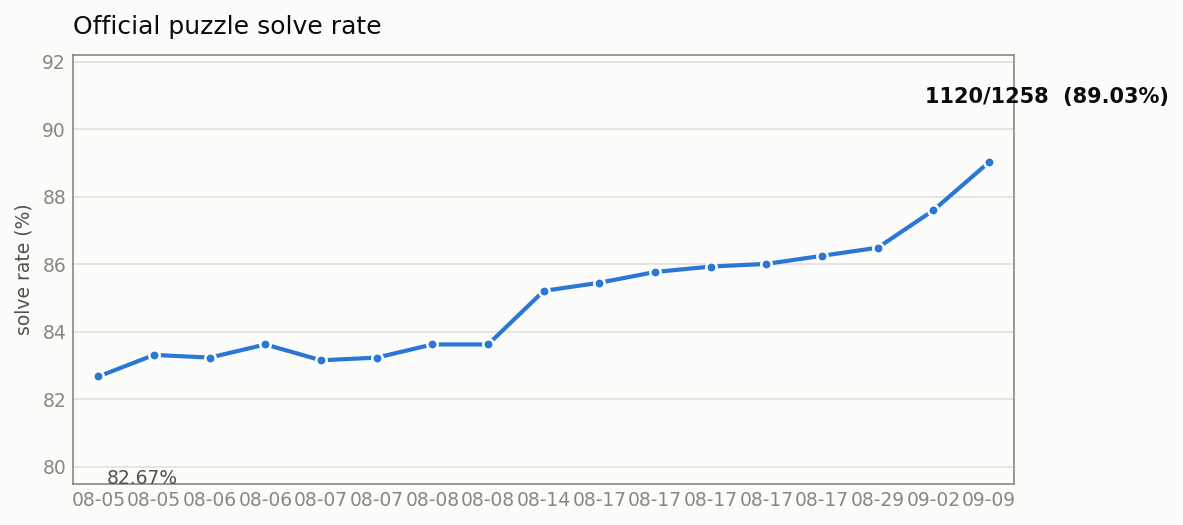
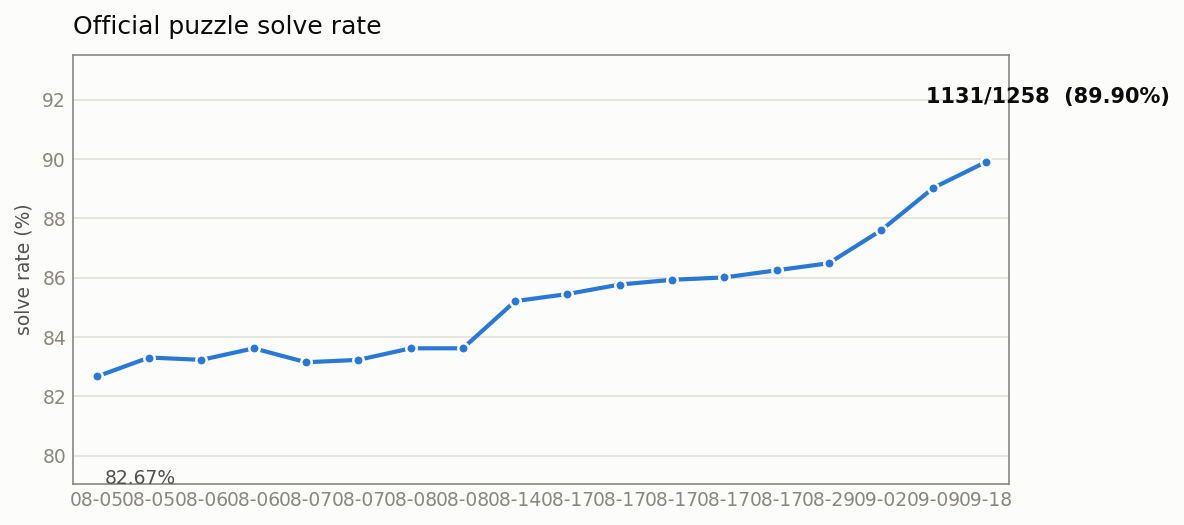
chore: 进度图更新至 1131/1258（89.90%）
追加 2026-09-18 里程碑（merge 3444bec）：edge_csp 形状同一性/compass
bbox/dual_connectivity + watchtower 对角格声音性修复，较 1120 基线
净 +11。曲线与 /trend/ 页同步重绘。

diff --git a/web/public/trend/index.html b/web/public/trend/index.html
@@ -68,113 +68,118 @@ a { color: var(--series); }
   <h1>官方谜题求解能力变化</h1>
   <p class="sub">官方谜题 (puzzles/official, 排除 -answer 目录) · 共 1258 题 · 数据源 docs/solver-history.json</p>
   <div class="hero">
-    <span class="num">89.03%</span>
-    <span class="unit">1120 / 1258 题解出</span>
+    <span class="num">89.90%</span>
+    <span class="unit">1131 / 1258 题解出</span>
   </div>
-  <span class="delta">较上次 ▲ <span class="up">1.43%</span>（1120/1258）</span>
+  <span class="delta">较上次 ▲ <span class="up">0.87%</span>（1131/1258）</span>
   <div id="chart-wrap" style="position:relative"><div class="tooltip" id="tooltip" style="visibility:hidden"></div><svg id="chart" viewBox="0 0 840 380" role="img" aria-label="官方题求解率变化曲线">
 <line class="grid" x1="60" y1="340.0" x2="816" y2="340.0"/>
-<text class="axis" x="50" y="344.0" text-anchor="end">80.4%</text>
+<text class="axis" x="50" y="344.0" text-anchor="end">80.1%</text>
 <line class="grid" x1="60" y1="234.7" x2="816" y2="234.7"/>
-<text class="axis" x="50" y="238.7" text-anchor="end">84.0%</text>
+<text class="axis" x="50" y="238.7" text-anchor="end">84.2%</text>
 <line class="grid" x1="60" y1="129.3" x2="816" y2="129.3"/>
-<text class="axis" x="50" y="133.3" text-anchor="end">87.7%</text>
+<text class="axis" x="50" y="133.3" text-anchor="end">88.3%</text>
 <line class="grid" x1="60" y1="24.0" x2="816" y2="24.0"/>
-<text class="axis" x="50" y="28.0" text-anchor="end">91.3%</text>
-<polyline class="line" points="60.0,274.9 107.2,256.2 154.5,258.6 201.8,247.2 249.0,260.9 296.2,258.6 343.5,247.2 390.8,247.2 438.0,200.7 485.2,193.7 532.5,184.3 579.8,179.7 627.0,177.3 674.2,170.3 721.5,163.3 768.8,130.9 816.0,89.1" fill="none"/>
+<text class="axis" x="50" y="28.0" text-anchor="end">92.4%</text>
+<polyline class="line" points="60.0,274.9 104.5,258.5 148.9,260.5 193.4,250.5 237.9,262.6 282.4,260.5 326.8,250.5 371.3,250.5 415.8,209.6 460.2,203.5 504.7,195.2 549.2,191.1 593.6,189.1 638.1,182.9 682.6,176.7 727.1,148.2 771.5,111.4 816.0,89.1" fill="none"/>
 <circle class="point" cx="60.0" cy="274.9" r="4.5">
 <title>2026-08-05  33d32c5
 1040/1258  (82.67%)</title>
 </circle>
 <text class="axis" x="60.0" y="366" text-anchor="middle">08-05</text>
-<circle class="point" cx="107.2" cy="256.2" r="4.5">
+<circle class="point" cx="104.5" cy="258.5" r="4.5">
 <title>2026-08-05  4733f59
 1048/1258  (83.31%)</title>
 </circle>
-<text class="axis" x="107.2" y="366" text-anchor="middle">08-05</text>
-<circle class="point" cx="154.5" cy="258.6" r="4.5">
+<text class="axis" x="104.5" y="366" text-anchor="middle">08-05</text>
+<circle class="point" cx="148.9" cy="260.5" r="4.5">
 <title>2026-08-06  7e569e7
 1047/1258  (83.23%)</title>
 </circle>
-<text class="axis" x="154.5" y="366" text-anchor="middle">08-06</text>
-<circle class="point" cx="201.8" cy="247.2" r="4.5">
+<text class="axis" x="148.9" y="366" text-anchor="middle">08-06</text>
+<circle class="point" cx="193.4" cy="250.5" r="4.5">
 <title>2026-08-06  dfadfe3
 1052/1258  (83.62%)</title>
 </circle>
-<text class="axis" x="201.8" y="366" text-anchor="middle">08-06</text>
-<circle class="point" cx="249.0" cy="260.9" r="4.5">
+<text class="axis" x="193.4" y="366" text-anchor="middle">08-06</text>
+<circle class="point" cx="237.9" cy="262.6" r="4.5">
 <title>2026-08-07  6169df3
 1046/1258  (83.15%)</title>
 </circle>
-<text class="axis" x="249.0" y="366" text-anchor="middle">08-07</text>
-<circle class="point" cx="296.2" cy="258.6" r="4.5">
+<text class="axis" x="237.9" y="366" text-anchor="middle">08-07</text>
+<circle class="point" cx="282.4" cy="260.5" r="4.5">
 <title>2026-08-07  cd40cab
 1047/1258  (83.23%)</title>
 </circle>
-<text class="axis" x="296.2" y="366" text-anchor="middle">08-07</text>
-<circle class="point" cx="343.5" cy="247.2" r="4.5">
+<text class="axis" x="282.4" y="366" text-anchor="middle">08-07</text>
+<circle class="point" cx="326.8" cy="250.5" r="4.5">
 <title>2026-08-08  bd2f5f5
 1052/1258  (83.62%)</title>
 </circle>
-<text class="axis" x="343.5" y="366" text-anchor="middle">08-08</text>
-<circle class="point" cx="390.8" cy="247.2" r="4.5">
+<text class="axis" x="326.8" y="366" text-anchor="middle">08-08</text>
+<circle class="point" cx="371.3" cy="250.5" r="4.5">
 <title>2026-08-08  shape-cap-aog
 1052/1258  (83.62%)</title>
 </circle>
-<text class="axis" x="390.8" y="366" text-anchor="middle">08-08</text>
-<circle class="point" cx="438.0" cy="200.7" r="4.5">
+<text class="axis" x="371.3" y="366" text-anchor="middle">08-08</text>
+<circle class="point" cx="415.8" cy="209.6" r="4.5">
 <title>2026-08-14  edge-csp-solver
 1072/1258  (85.21%)</title>
 </circle>
-<text class="axis" x="438.0" y="366" text-anchor="middle">08-14</text>
-<circle class="point" cx="485.2" cy="193.7" r="4.5">
+<text class="axis" x="415.8" y="366" text-anchor="middle">08-14</text>
+<circle class="point" cx="460.2" cy="203.5" r="4.5">
 <title>2026-08-17  8758659
 1075/1258  (85.45%)</title>
 </circle>
-<text class="axis" x="485.2" y="366" text-anchor="middle">08-17</text>
-<circle class="point" cx="532.5" cy="184.3" r="4.5">
+<text class="axis" x="460.2" y="366" text-anchor="middle">08-17</text>
+<circle class="point" cx="504.7" cy="195.2" r="4.5">
 <title>2026-08-17  dbe2f65
 1079/1258  (85.77%)</title>
 </circle>
-<text class="axis" x="532.5" y="366" text-anchor="middle">08-17</text>
-<circle class="point" cx="579.8" cy="179.7" r="4.5">
+<text class="axis" x="504.7" y="366" text-anchor="middle">08-17</text>
+<circle class="point" cx="549.2" cy="191.1" r="4.5">
 <title>2026-08-17  04ea400
 1081/1258  (85.93%)</title>
 </circle>
-<text class="axis" x="579.8" y="366" text-anchor="middle">08-17</text>
-<circle class="point" cx="627.0" cy="177.3" r="4.5">
+<text class="axis" x="549.2" y="366" text-anchor="middle">08-17</text>
+<circle class="point" cx="593.6" cy="189.1" r="4.5">
 <title>2026-08-17  d3d9c52
 1082/1258  (86.01%)</title>
 </circle>
-<text class="axis" x="627.0" y="366" text-anchor="middle">08-17</text>
-<circle class="point" cx="674.2" cy="170.3" r="4.5">
+<text class="axis" x="593.6" y="366" text-anchor="middle">08-17</text>
+<circle class="point" cx="638.1" cy="182.9" r="4.5">
 <title>2026-08-17  150005f
 1085/1258  (86.25%)</title>
 </circle>
-<text class="axis" x="674.2" y="366" text-anchor="middle">08-17</text>
-<circle class="point" cx="721.5" cy="163.3" r="4.5">
+<text class="axis" x="638.1" y="366" text-anchor="middle">08-17</text>
+<circle class="point" cx="682.6" cy="176.7" r="4.5">
 <title>2026-08-29  4be9922
 1088/1258  (86.49%)</title>
 </circle>
-<text class="axis" x="721.5" y="366" text-anchor="middle">08-29</text>
-<circle class="point" cx="768.8" cy="130.9" r="4.5">
+<text class="axis" x="682.6" y="366" text-anchor="middle">08-29</text>
+<circle class="point" cx="727.1" cy="148.2" r="4.5">
 <title>2026-09-02  c10e181
 1102/1258  (87.60%)</title>
 </circle>
-<text class="axis" x="768.8" y="366" text-anchor="middle">09-02</text>
-<circle class="point" cx="816.0" cy="89.1" r="4.5">
+<text class="axis" x="727.1" y="366" text-anchor="middle">09-02</text>
+<circle class="point" cx="771.5" cy="111.4" r="4.5">
 <title>2026-09-09  a04a4ad
 1120/1258  (89.03%)</title>
 </circle>
-<text class="axis" x="816.0" y="366" text-anchor="middle">09-09</text>
+<text class="axis" x="771.5" y="366" text-anchor="middle">09-09</text>
+<circle class="point" cx="816.0" cy="89.1" r="4.5">
+<title>2026-09-18  3444bec
+1131/1258  (89.90%)</title>
+</circle>
+<text class="axis" x="816.0" y="366" text-anchor="middle">09-18</text>
 <line class="crosshair" id="crosshair" y1="0" y2="0" visibility="hidden"/>
 </svg></div>
-  <table><thead><tr><th>日期</th><th>commit</th><th class='num'>通过</th><th class='num'>占比</th></tr></thead><tbody><tr class="latest"><td>2026-09-09</td><td>a04a4ad</td><td class="num">1120/1258</td><td class="num">89.03%</td></tr><tr><td>2026-09-02</td><td>c10e181</td><td class="num">1102/1258</td><td class="num">87.60%</td></tr><tr><td>2026-08-29</td><td>4be9922</td><td class="num">1088/1258</td><td class="num">86.49%</td></tr><tr><td>2026-08-17</td><td>150005f</td><td class="num">1085/1258</td><td class="num">86.25%</td></tr><tr><td>2026-08-17</td><td>d3d9c52</td><td class="num">1082/1258</td><td class="num">86.01%</td></tr><tr><td>2026-08-17</td><td>04ea400</td><td class="num">1081/1258</td><td class="num">85.93%</td></tr><tr><td>2026-08-17</td><td>dbe2f65</td><td class="num">1079/1258</td><td class="num">85.77%</td></tr><tr><td>2026-08-17</td><td>8758659</td><td class="num">1075/1258</td><td class="num">85.45%</td></tr><tr><td>2026-08-14</td><td>edge-csp-solver</td><td class="num">1072/1258</td><td class="num">85.21%</td></tr><tr><td>2026-08-08</td><td>shape-cap-aog</td><td class="num">1052/1258</td><td class="num">83.62%</td></tr><tr><td>2026-08-08</td><td>bd2f5f5</td><td class="num">1052/1258</td><td class="num">83.62%</td></tr><tr><td>2026-08-07</td><td>cd40cab</td><td class="num">1047/1258</td><td class="num">83.23%</td></tr><tr><td>2026-08-07</td><td>6169df3</td><td class="num">1046/1258</td><td class="num">83.15%</td></tr><tr><td>2026-08-06</td><td>dfadfe3</td><td class="num">1052/1258</td><td class="num">83.62%</td></tr><tr><td>2026-08-06</td><td>7e569e7</td><td class="num">1047/1258</td><td class="num">83.23%</td></tr><tr><td>2026-08-05</td><td>4733f59</td><td class="num">1048/1258</td><td class="num">83.31%</td></tr><tr><td>2026-08-05</td><td>33d32c5</td><td class="num">1040/1258</td><td class="num">82.67%</td></tr></tbody></table>
+  <table><thead><tr><th>日期</th><th>commit</th><th class='num'>通过</th><th class='num'>占比</th></tr></thead><tbody><tr class="latest"><td>2026-09-18</td><td>3444bec</td><td class="num">1131/1258</td><td class="num">89.90%</td></tr><tr><td>2026-09-09</td><td>a04a4ad</td><td class="num">1120/1258</td><td class="num">89.03%</td></tr><tr><td>2026-09-02</td><td>c10e181</td><td class="num">1102/1258</td><td class="num">87.60%</td></tr><tr><td>2026-08-29</td><td>4be9922</td><td class="num">1088/1258</td><td class="num">86.49%</td></tr><tr><td>2026-08-17</td><td>150005f</td><td class="num">1085/1258</td><td class="num">86.25%</td></tr><tr><td>2026-08-17</td><td>d3d9c52</td><td class="num">1082/1258</td><td class="num">86.01%</td></tr><tr><td>2026-08-17</td><td>04ea400</td><td class="num">1081/1258</td><td class="num">85.93%</td></tr><tr><td>2026-08-17</td><td>dbe2f65</td><td class="num">1079/1258</td><td class="num">85.77%</td></tr><tr><td>2026-08-17</td><td>8758659</td><td class="num">1075/1258</td><td class="num">85.45%</td></tr><tr><td>2026-08-14</td><td>edge-csp-solver</td><td class="num">1072/1258</td><td class="num">85.21%</td></tr><tr><td>2026-08-08</td><td>shape-cap-aog</td><td class="num">1052/1258</td><td class="num">83.62%</td></tr><tr><td>2026-08-08</td><td>bd2f5f5</td><td class="num">1052/1258</td><td class="num">83.62%</td></tr><tr><td>2026-08-07</td><td>cd40cab</td><td class="num">1047/1258</td><td class="num">83.23%</td></tr><tr><td>2026-08-07</td><td>6169df3</td><td class="num">1046/1258</td><td class="num">83.15%</td></tr><tr><td>2026-08-06</td><td>dfadfe3</td><td class="num">1052/1258</td><td class="num">83.62%</td></tr><tr><td>2026-08-06</td><td>7e569e7</td><td class="num">1047/1258</td><td class="num">83.23%</td></tr><tr><td>2026-08-05</td><td>4733f59</td><td class="num">1048/1258</td><td class="num">83.31%</td></tr><tr><td>2026-08-05</td><td>33d32c5</td><td class="num">1040/1258</td><td class="num">82.67%</td></tr></tbody></table>
   <p class="sub" style="margin-top:24px">曲线纵轴为缩放后的求解率区间（非 0–100），
   以突出小幅变化；完整数值见下表与仓库内 <code>docs/solver-history.json</code>。</p>
 </div>
 <script>
-const DATA = [{"date": "2026-08-05", "commit": "33d32c5", "passed": 1040, "total": 1258, "pct": 82.67}, {"date": "2026-08-05", "commit": "4733f59", "passed": 1048, "total": 1258, "pct": 83.31}, {"date": "2026-08-06", "commit": "7e569e7", "passed": 1047, "total": 1258, "pct": 83.23}, {"date": "2026-08-06", "commit": "dfadfe3", "passed": 1052, "total": 1258, "pct": 83.62}, {"date": "2026-08-07", "commit": "6169df3", "passed": 1046, "total": 1258, "pct": 83.15}, {"date": "2026-08-07", "commit": "cd40cab", "passed": 1047, "total": 1258, "pct": 83.23}, {"date": "2026-08-08", "commit": "bd2f5f5", "passed": 1052, "total": 1258, "pct": 83.62}, {"date": "2026-08-08", "commit": "shape-cap-aog", "passed": 1052, "total": 1258, "pct": 83.62}, {"date": "2026-08-14", "commit": "edge-csp-solver", "passed": 1072, "total": 1258, "pct": 85.21}, {"date": "2026-08-17", "commit": "8758659", "passed": 1075, "total": 1258, "pct": 85.45}, {"date": "2026-08-17", "commit": "dbe2f65", "passed": 1079, "total": 1258, "pct": 85.77}, {"date": "2026-08-17", "commit": "04ea400", "passed": 1081, "total": 1258, "pct": 85.93}, {"date": "2026-08-17", "commit": "d3d9c52", "passed": 1082, "total": 1258, "pct": 86.01}, {"date": "2026-08-17", "commit": "150005f", "passed": 1085, "total": 1258, "pct": 86.25}, {"date": "2026-08-29", "commit": "4be9922", "passed": 1088, "total": 1258, "pct": 86.49}, {"date": "2026-09-02", "commit": "c10e181", "passed": 1102, "total": 1258, "pct": 87.6}, {"date": "2026-09-09", "commit": "a04a4ad", "passed": 1120, "total": 1258, "pct": 89.03}];
+const DATA = [{"date": "2026-08-05", "commit": "33d32c5", "passed": 1040, "total": 1258, "pct": 82.67}, {"date": "2026-08-05", "commit": "4733f59", "passed": 1048, "total": 1258, "pct": 83.31}, {"date": "2026-08-06", "commit": "7e569e7", "passed": 1047, "total": 1258, "pct": 83.23}, {"date": "2026-08-06", "commit": "dfadfe3", "passed": 1052, "total": 1258, "pct": 83.62}, {"date": "2026-08-07", "commit": "6169df3", "passed": 1046, "total": 1258, "pct": 83.15}, {"date": "2026-08-07", "commit": "cd40cab", "passed": 1047, "total": 1258, "pct": 83.23}, {"date": "2026-08-08", "commit": "bd2f5f5", "passed": 1052, "total": 1258, "pct": 83.62}, {"date": "2026-08-08", "commit": "shape-cap-aog", "passed": 1052, "total": 1258, "pct": 83.62}, {"date": "2026-08-14", "commit": "edge-csp-solver", "passed": 1072, "total": 1258, "pct": 85.21}, {"date": "2026-08-17", "commit": "8758659", "passed": 1075, "total": 1258, "pct": 85.45}, {"date": "2026-08-17", "commit": "dbe2f65", "passed": 1079, "total": 1258, "pct": 85.77}, {"date": "2026-08-17", "commit": "04ea400", "passed": 1081, "total": 1258, "pct": 85.93}, {"date": "2026-08-17", "commit": "d3d9c52", "passed": 1082, "total": 1258, "pct": 86.01}, {"date": "2026-08-17", "commit": "150005f", "passed": 1085, "total": 1258, "pct": 86.25}, {"date": "2026-08-29", "commit": "4be9922", "passed": 1088, "total": 1258, "pct": 86.49}, {"date": "2026-09-02", "commit": "c10e181", "passed": 1102, "total": 1258, "pct": 87.6}, {"date": "2026-09-09", "commit": "a04a4ad", "passed": 1120, "total": 1258, "pct": 89.03}, {"date": "2026-09-18", "commit": "3444bec", "passed": 1131, "total": 1258, "pct": 89.9}];
 const svg = document.getElementById('chart');
 const cross = document.getElementById('crosshair');
 const tip = document.getElementById('tooltip');
@@ -192,7 +197,9 @@ function move(e) {
   cross.setAttribute('y1', 24); cross.setAttribute('y2', 340);
   cross.setAttribute('visibility', 'visible');
   const i = pts.indexOf(best);
-  tip.textContent = `${DATA[i].date}  ${DATA[i].commit || '—'}\n${DATA[i].passed}/${DATA[i].total}  (${DATA[i].pct}%)`;
+  tip.textContent =
+    `${DATA[i].date}  ${DATA[i].commit || '—'}\n` +
+    `${DATA[i].passed}/${DATA[i].total}  (${DATA[i].pct}%)`;
   const wr = wrap.getBoundingClientRect();
   tip.style.left = (e.clientX - wr.left) + 'px';
   tip.style.top = (e.clientY - wr.top) + 'px';
